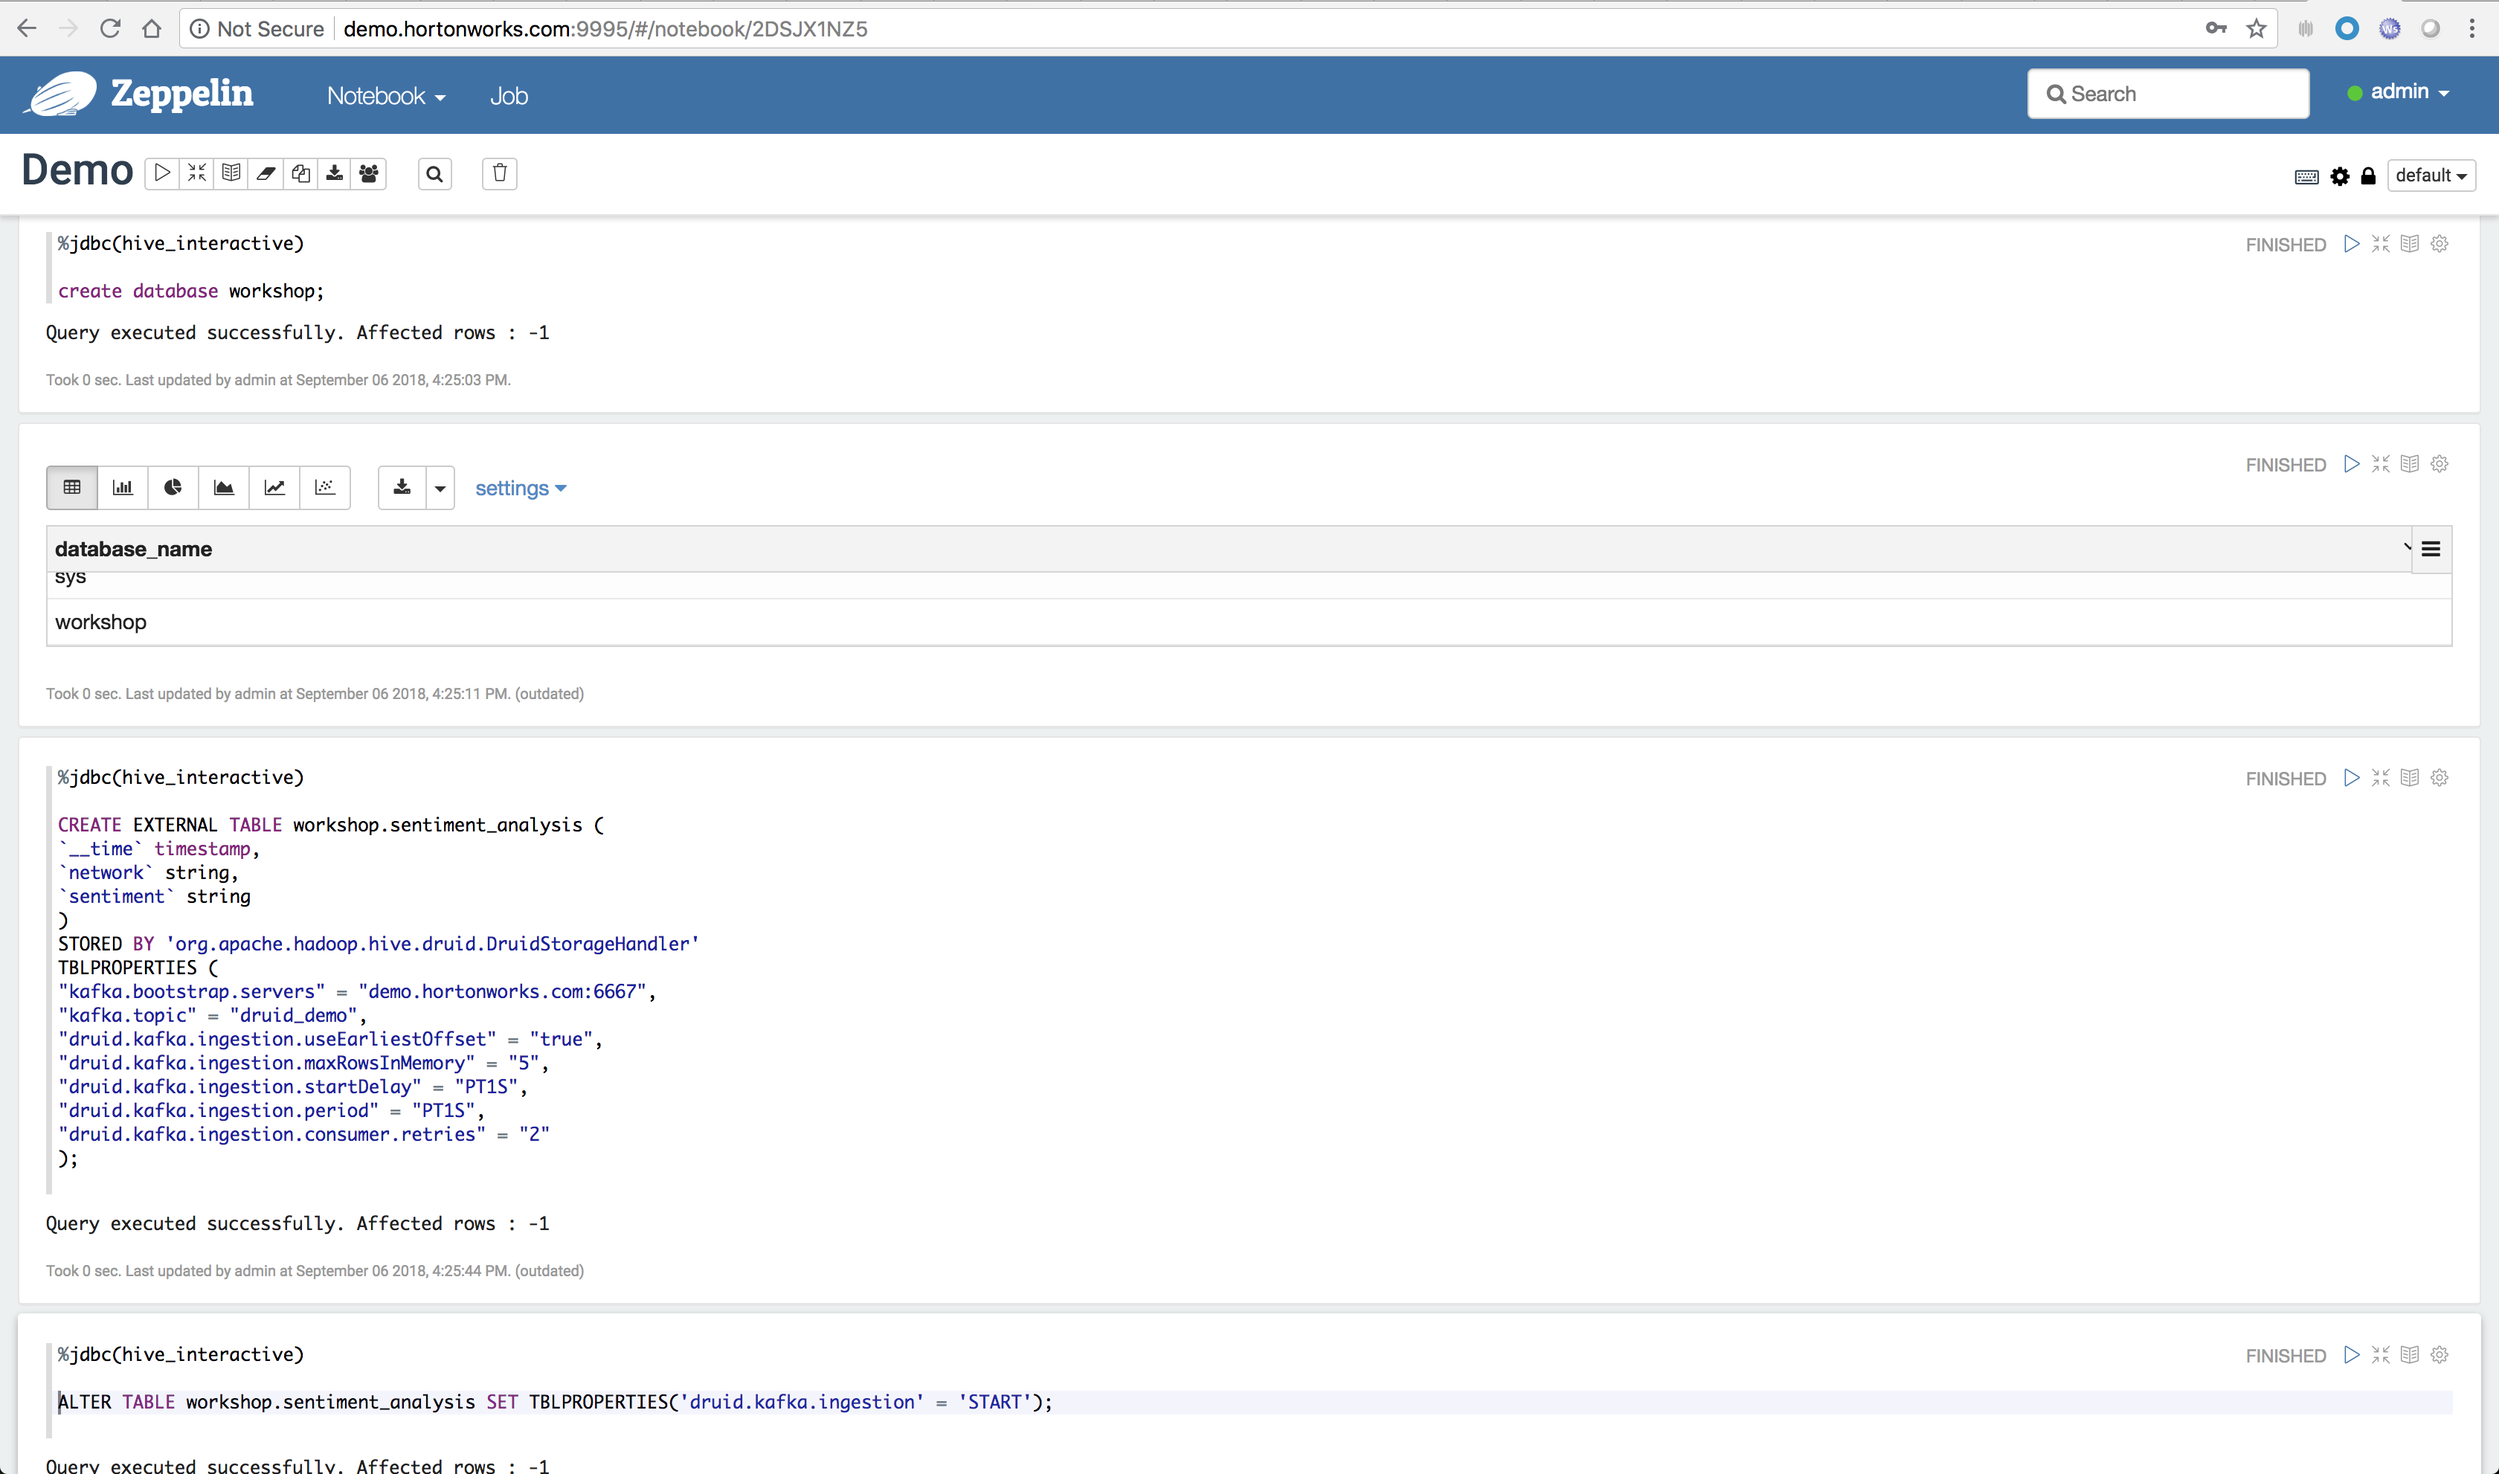
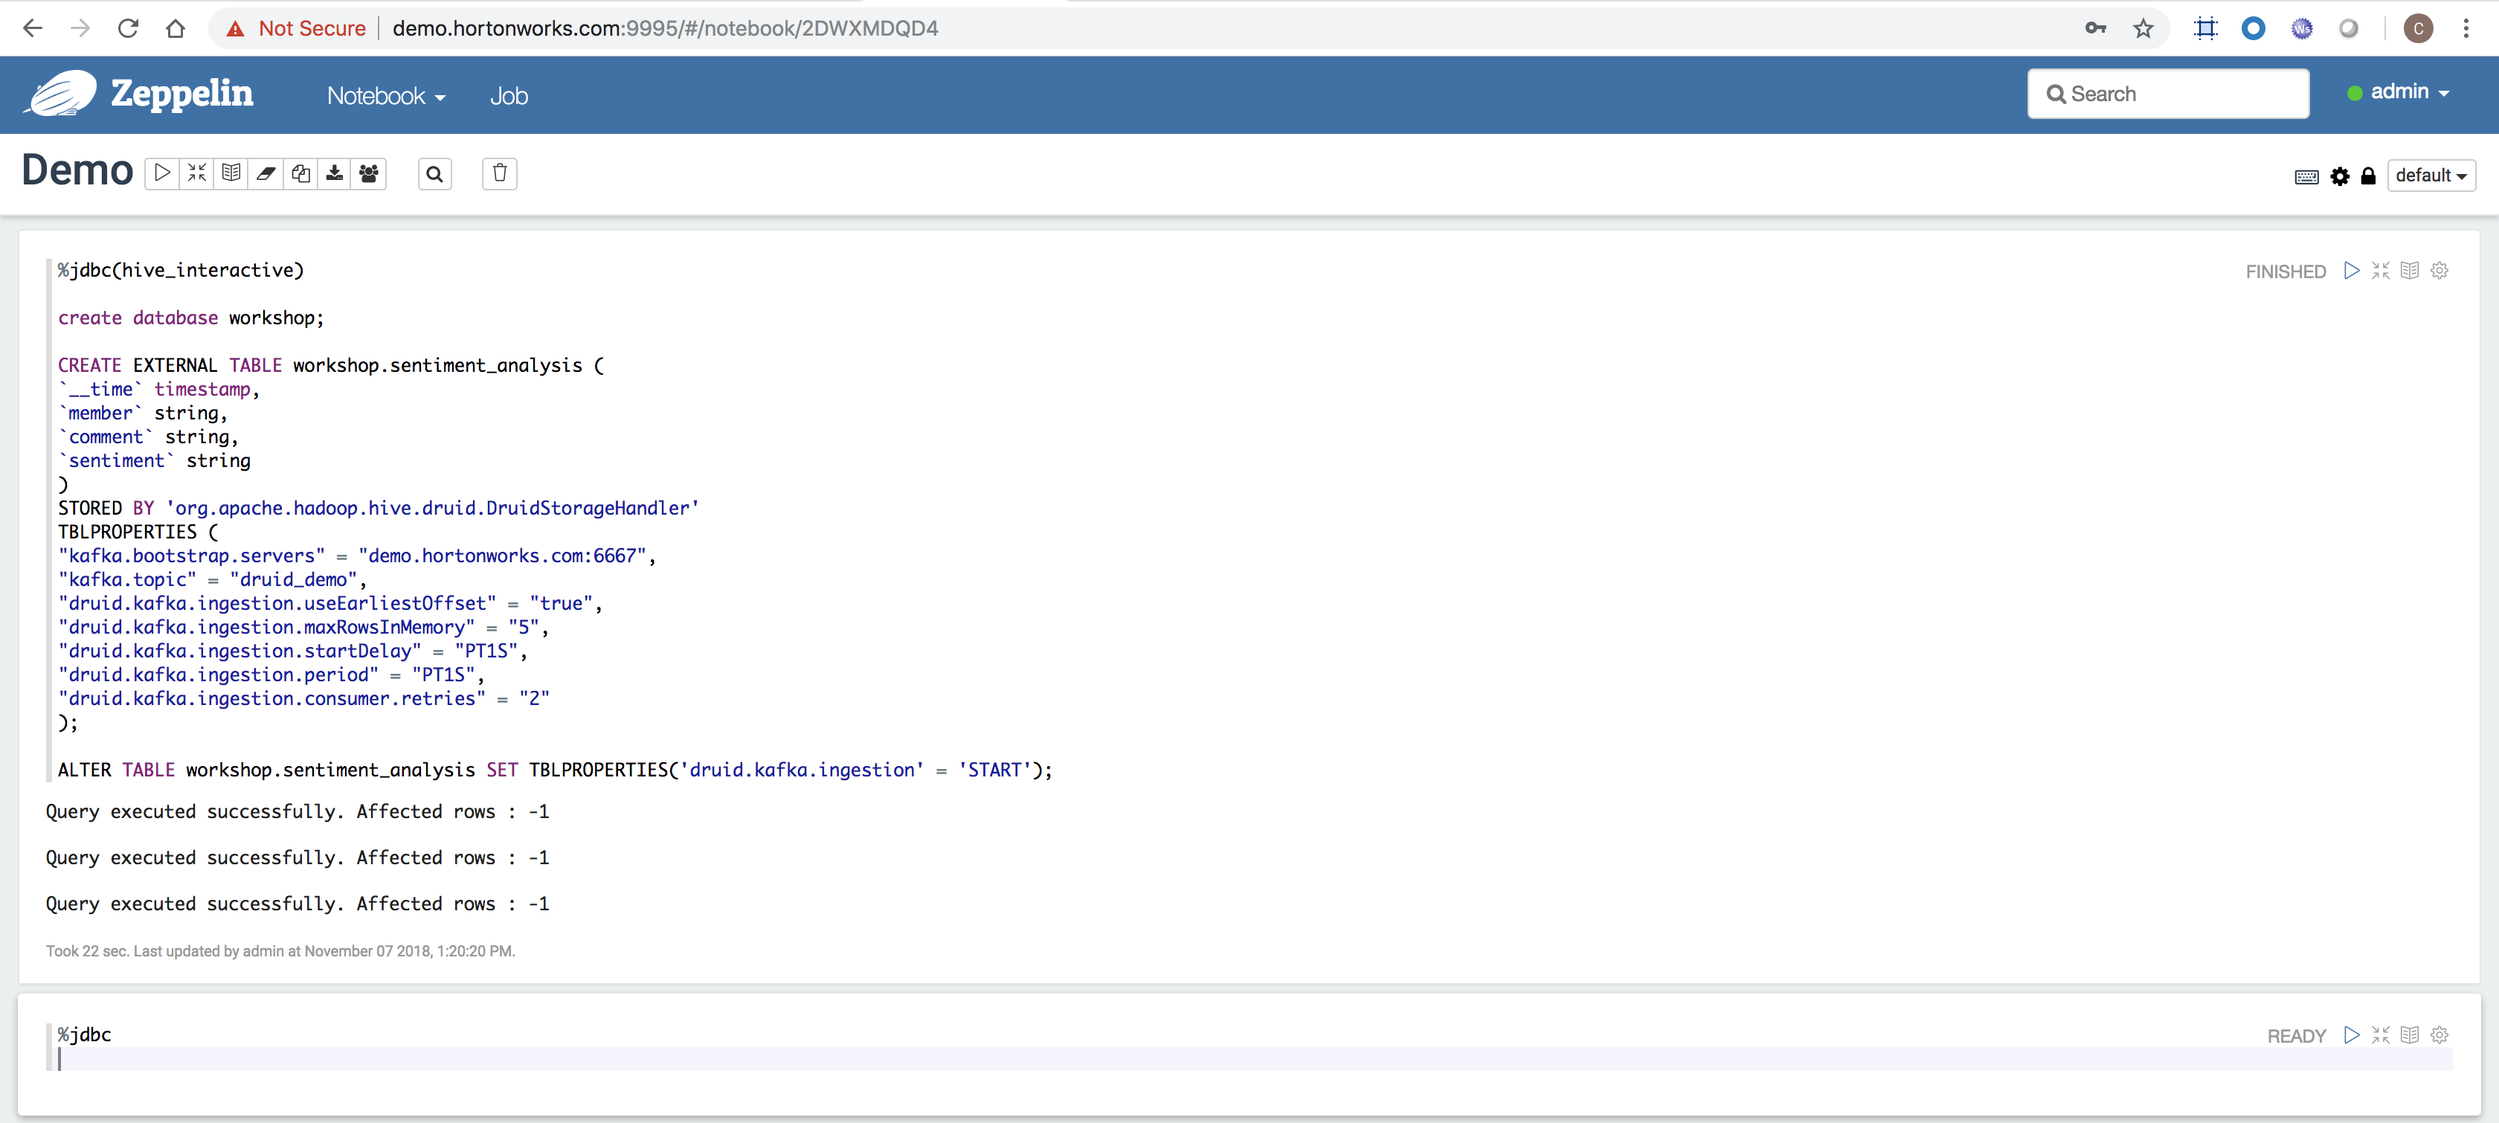
update

Changed region(s): [[0.0, 0.0, 1.0, 1.0], [0.2812, 0.6848, 0.3438, 0.7159], [0.9062, 0.3113, 0.9375, 0.3424]]

diff --git a/README.md b/README.md
@@ -209,7 +209,8 @@ Create the Hive table backed by Druid storage where the social medias sentiment 
 ```SQL
 CREATE EXTERNAL TABLE workshop.sentiment_analysis (
 `__time` timestamp,
-`network` string,
+`member` string,
+`comment` string,
 `sentiment` string
 )
 STORED BY 'org.apache.hadoop.hive.druid.DruidStorageHandler'
@@ -234,25 +235,54 @@ Verify that supervisor and indexing task are running from the [Druid overload co
 
 ![Image of zeppelin create table](images/zeppelin_create_table.png)
 
-## Stream data into Hive using NiFi
+## Stream enhanced data into Hive using NiFi
 
-First we are going to stop and disable some processors from the previous Flow
+Go back to [NiFi UI](http://demo.hortonworks.com:9090/nifi/) and follow the steps below:
 
-- Step 1: Disable unnecessary processors
-  - Right click and disable MergeContent and PutFile processors
+- Step 1: Remove no longer needed processor from previous flow
+  - Right click on the relationship between EvaluateJsonPath and AttibutesToCSV processors and delete
+  - Do the same for the EvaluateJsonPath processor
+  - Right click on the relationship between AttibutesToCSV and PutFile processors and delete
+  - Do the same for the PutFile processor
   
-- Step 2: Format post time to comply with [ISO format](https://en.wikipedia.org/wiki/ISO_8601) (Druid requirement)
-  - Add UpdateAttribute processor between EvaluateJSonPath and AttributesToJSON processors
-  - Using handy [NiFi's language expression](https://nifi.apache.org/docs/nifi-docs/html/expression-language-guide.html#dates), add a new attribue ```__time``` with value: ```${time:toDate("yyyy-MM-dd HH:mm:ss '+00000'", "GMT"):format("yyyy-MM-dd'T'HH:mm:ss'Z'", "Asia/Singapore")}```
-
-- Step 3: Modify existing AttributesToJSON processor to stream new attribute ```__time```
-  - Double click on processor
-  - On settings tab, check **failure** relationship
-  -  Go to properties tab
-  - Replace ```network,time,sentiment,text,url``` in the Attributes List with ```network,__time,sentiment```
+- Step 2: Prepare the content to be posted to the sentiment analysis service
+  - Add ReplaceText processor and link from EvaluateJSonPath on **matched** relationship
+  - Double click on processor and check failure on settings tab
+  - Go to properties tab and remove value for **Search Value** and set it to empty string
+  - Set **Replacement Value** with value: **${comment:replaceAll('\.', ';')}**. We want to make sure the entire comment is evaluated as one sentence instead of one evaluation per sentence within the same comment.
+  - Set **Content-Type** to **application/x-www-form-urlencoded**
   - Apply changes
   
-- Step 4: Add a **PublishKafka_1_0** connector to the canvas and link from AttributesToJSON on **success** relationship
+- Step 3: Call the web service started earlier on incoming message
+  - Add InvokeHTTP processor and link from ReplaceText on **success** relationship
+  - Double click on processor and check all relationships except response on settings tab
+  - Go to properties tab and set value for **HTTP Method** to **POST**
+  - Set **Remote URL** with value: **http://demo.hortonworks.com:9999/?properties=%7B%22annotators%22%3A%22sentiment%22%2C%22outputFormat%22%3A%22json%22%7D** which is the url encoded value for **http://demo.hortonworks.com:9999/?properties={"annotators":"sentiment","outputFormat":"json"}**
+  - Set **Replacement Strategy** to **Always Replace**
+  - Apply changes
+  
+- Step 4: Add EvaluateJsonPath to the canvas and link from InvokeHTTP on **response** relationship
+  - Double click on the processor
+  - On settings tab, check both **failure** and **unmatched** relationships
+  - On properties tab
+  - Change **Destination** value to **flowfile-attribute**
+  - Add on the property **sentiment** with value **$.sentences[0].sentiment**
+  - Apply changes
+  
+- Step 5: Format post time to comply with [ISO format](https://en.wikipedia.org/wiki/ISO_8601) (Druid requirement)
+  - Add UpdateAttribute processor and link from EvaluateJsonPath on **matched** relationship
+  - Using handy [NiFi's language expression](https://nifi.apache.org/docs/nifi-docs/html/expression-language-guide.html#dates), add a new attribue ```__time``` with value: ```${timestamp:format("yyyy-MM-dd'T'HH:mm:ss'Z'", "Asia/Singapore")}``` to settings tab
+
+- Step 6: Add AttributesToJSON processor to prepare the message to be published to the Kafka topic created before. Link from UpdateAttribute.
+  - Double click on processor
+  - On settings tab, check **failure** relationship
+  - Go to properties tab
+  - In the Attributes List value set ```__time, comment, member, sentiment``` to match the previously created Hive table
+  - Change Destination to **flowfile-content**
+  - Set Include Core Attributes to **false**
+  - Apply changes
+  
+- Step 7: Last step, add a **PublishKafka_1_0** connector to the canvas and link from AttributesToJSON on **success** relationship
   - Double click on the processor
   - On settings tab, check all relationships
   - On properties tab
@@ -261,7 +291,7 @@ First we are going to stop and disable some processors from the previous Flow
   - Change **Use Transactions** value to **false**
   - Apply changes
   
-- Step 5: Start the entire flow
+You can now start the entire flow
 	
 The overall flow should look like this
 
